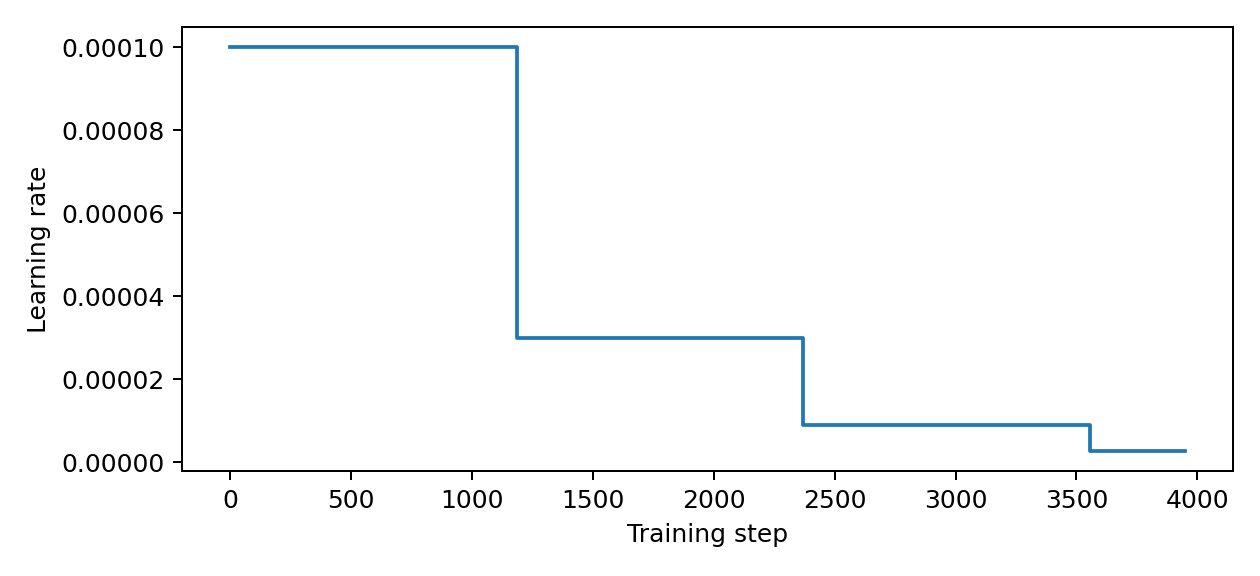
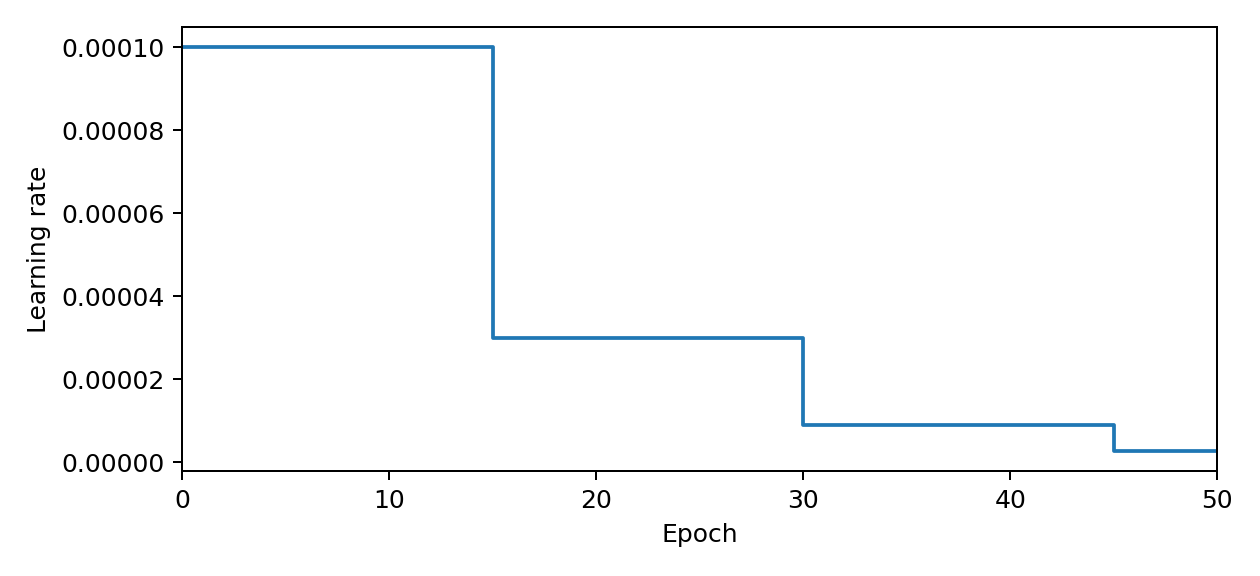
Rerun Q2 and clarify scalar and gradient figures
Keep the training and evaluation code unchanged and use fresh external logs and checkpoints. Plot epochs through 50 with raw mAP and a labeled plateau zoom, logarithmic minibatch loss, and comparable early/middle/late gradient densities from exact TensorBoard bucket counts. Refresh final-model features and measured report answers.

diff --git a/scripts/make_figures.py b/scripts/make_figures.py
@@ -2,6 +2,7 @@
 from pathlib import Path
 import shutil
 import matplotlib.pyplot as plt
+import numpy as np
 from tensorboard.backend.event_processing.event_accumulator import EventAccumulator
 
 ROOT = Path(__file__).resolve().parents[1]
@@ -11,19 +12,31 @@ FIGURES = ROOT / 'report' / 'figures'
 
 def scalars(run, tag):
     root = ROOT.parent / 'runs/q1_bce_revision' if run.startswith('q1_bce_') else RUNS
+    if run == 'q2_epoch_rerun':
+        root = ROOT.parent / 'runs/q2_epoch_revision'
     events = EventAccumulator(str(root / run), size_guidance={'scalars': 0}).Reload()
     return events.Scalars(tag)
 
 
 def plot(runs, tag, filename, ylabel):
-    fig, ax = plt.subplots(figsize=(7, 3.2))
+    zoom = filename == 'q2_map.png'
+    if zoom:
+        fig, axes = plt.subplots(1, 2, figsize=(8, 3.2), gridspec_kw={'width_ratios': [1, 2]})
+        ax = axes[0]
+    else:
+        fig, ax = plt.subplots(figsize=(7, 3.2))
     q1 = filename.startswith('q1_')
+    q2 = filename.startswith('q2_')
     for run, label in runs:
         values = scalars(run, tag)
         steps = [v.step for v in values]
-        if q1:
+        if q1 or q2:
             rates = scalars(run, 'learning_rate')
             steps_per_epoch = rates[0].step
+            if q2 and (len(rates) != 50 or rates[-1].step != 50 * steps_per_epoch):
+                raise RuntimeError('Finish all 50 Q2 epochs before generating report figures.')
+            if q2 and tag == 'map' and values[-1].step != rates[-1].step:
+                raise RuntimeError('Wait for the final Q2 evaluation before plotting mAP.')
             # Minibatch tags use zero-based indices; the final mAP and LR
             # use completed-update counts in the starter's logging loop.
             if tag != 'learning_rate':
@@ -34,15 +47,81 @@ def plot(runs, tag, filename, ylabel):
                     [values[0].value] + [v.value for v in values], where='post', label=label)
         else:
             ax.plot(steps, [v.value for v in values], label=label)
-    ax.set(xlabel='Epoch' if q1 else 'Training step', ylabel=ylabel)
-    if q1:
-        ax.set_xlim(0, 5)
-        ax.set_xticks(range(6))
+        if zoom:
+            axes[1].plot(steps, [v.value for v in values], marker='.', markersize=3)
+            late = [v.value for step, v in zip(steps, values) if step >= 5]
+            margin = max((max(late) - min(late)) * .1, .0005)
+            axes[1].set(xlabel='Epoch', xlim=(5, 50),
+                        ylim=(min(late) - margin, max(late) + margin), title='Epochs 5–50 (zoom)')
+            ax.set_title('Full range')
+    ax.set(xlabel='Epoch' if q1 or q2 else 'Training step', ylabel=ylabel)
+    if q1 or q2:
+        last_epoch = 5 if q1 else 50
+        ax.set_xlim(0, last_epoch)
+        ax.set_xticks(range(0, last_epoch + 1, 1 if q1 else 10))
+    if filename == 'q2_loss.png':
+        ax.set_yscale('log')
     if len(runs) > 1:
         ax.legend()
     fig.tight_layout()
     fig.savefig(FIGURES / filename, dpi=180)
     plt.close(fig)
+
+
+def q2_histograms():
+    events = EventAccumulator(str(ROOT.parent / 'runs/q2_epoch_revision/q2_epoch_rerun'),
+                              size_guidance={'histograms': 0, 'scalars': 0}).Reload()
+    rates = events.Scalars('learning_rate')
+    steps_per_epoch = rates[0].step
+    if len(rates) != 50 or rates[-1].step != 50 * steps_per_epoch:
+        raise RuntimeError('Finish all 50 Q2 epochs before generating histogram panels.')
+    layers = [('resnet.layer1.1.conv1.weight/grad', 'q2_hist_conv.png'),
+              ('resnet.layer4.0.bn2.bias/grad', 'q2_hist_bn.png')]
+    selected = [[min(events.Histograms(tag), key=lambda v: abs((v.step + 1) / steps_per_epoch - epoch))
+                 for epoch in [1, 25, 50]] for tag, filename in layers]
+    # All summaries use the same native TensorBoard bucket grid. Select
+    # common boundaries and combine complete buckets, without interpolation.
+    grid = np.unique(np.concatenate([v.histogram_value.bucket_limit for row in selected for v in row]))
+    indices = np.searchsorted(grid, np.linspace(grid[0], grid[-1], 41)).clip(0, len(grid) - 1)
+    edges = np.unique(grid[indices])
+    densities = []
+    for row in selected:
+        layer_densities = []
+        for value in row:
+            h = value.histogram_value
+            assert h.bucket[0] == 0
+            counts = np.zeros(len(edges) - 1)
+            for low, high, count in zip(h.bucket_limit[:-1], h.bucket_limit[1:], h.bucket[1:]):
+                if count:
+                    index = np.searchsorted(edges, high, side='left') - 1
+                    assert edges[index] <= low and high <= edges[index + 1]
+                    counts[index] += count
+            assert counts.sum() == h.num
+            density = counts / (h.num * np.diff(edges))
+            assert np.isclose(np.sum(density * np.diff(edges)), 1)
+            layer_densities.append(density)
+        densities.append(layer_densities)
+    ymax = max(density.max() for row in densities for density in row) * 1.08
+    limit = max(abs(edges[0]), abs(edges[-1]))
+    np.savez_compressed(ROOT.parent / 'runs/q2_epoch_revision/histogram_panels.npz',
+                        edges=edges, densities=np.array(densities),
+                        steps=np.array([[v.step for v in row] for row in selected]),
+                        parameter_counts=np.array([row[0].histogram_value.num for row in selected]))
+    for (tag, filename), row, layer_densities in zip(layers, selected, densities):
+        fig, axes = plt.subplots(1, 3, figsize=(8, 2.8), sharex=True, sharey=True)
+        for ax, value, density in zip(axes, row, layer_densities):
+            ax.stairs(density, edges, fill=True, alpha=.65)
+            ax.axvline(0, color='black', linewidth=.6, linestyle=':')
+            ax.set(title=f'Epoch {(value.step + 1) / steps_per_epoch:.2f}',
+                   xlabel='Gradient', xlim=(-limit, limit), ylim=(0, ymax))
+            ax.ticklabel_format(axis='both', style='sci', scilimits=(0, 0))
+            ax.locator_params(axis='x', nbins=3)
+        axes[0].set_ylabel('Probability density')
+        fig.suptitle(tag.removeprefix('resnet.').removesuffix('/grad') +
+                     f' ({int(row[0].histogram_value.num):,} parameters)')
+        fig.tight_layout()
+        fig.savefig(FIGURES / filename, dpi=180)
+        plt.close(fig)
 
 
 def main():
@@ -54,11 +133,12 @@ def main():
     comparison = [(prefix + '_noaug', 'Without augmentation'), (prefix + '_aug', 'With augmentation')]
     plot(comparison, 'Loss/train', 'q1_compare_loss.png', 'Training loss')
     plot(comparison, 'map', 'q1_compare_map.png', 'Test mAP')
-    for run, question in [(best, 'q1'), ('q2', 'q2')]:
+    for run, question in [(best, 'q1'), ('q2_epoch_rerun', 'q2')]:
         for tag, suffix, label in [('Loss/train', 'loss', 'Training loss'),
                                    ('map', 'map', 'Test mAP'),
                                    ('learning_rate', 'lr', 'Learning rate')]:
             plot([(run, run)], tag, f'{question}_{suffix}.png', label)
+    q2_histograms()
     for mode in ['overfit', 'full']:
         components = [scalars('fcos_' + mode, 'train/loss_' + kind + '_' + mode)
                       for kind in ['cls', 'box', 'ctr']]

diff --git a/report/main.tex b/report/main.tex
@@ -392,7 +392,7 @@ Hopefully, we get much better accuracy with the deeper models! Since 2012, much 
         \centering
         % TODO: put your plot here.
         \includegraphics[width=0.95\linewidth,height=0.42\textheight,keepaspectratio]{report/figures/q2_map.png}
-        \caption{\texttt{mAP} for ResNet}
+        \caption{\texttt{mAP} for ResNet. Raw logged values, with a zoom of epochs 5--50.}
         \label{fig:q2_map}
         \end{figure}
         
@@ -400,36 +400,40 @@ Hopefully, we get much better accuracy with the deeper models! Since 2012, much 
         \centering
         % TODO: put your plot here.
         \includegraphics[width=0.95\linewidth,height=0.42\textheight,keepaspectratio]{report/figures/q2_loss.png}
-        \caption{\texttt{Loss/Train} for ResNet}
+        \caption{\texttt{Loss/Train} for ResNet. Raw minibatch losses on a logarithmic scale.}
         \label{fig:q2_training_loss}
         \end{figure}
 
         \item How does the test mAP and training loss change over time? Why do you think this is happening?
 
         \begin{solution}
-Training loss falls from 0.7541 at the first logged minibatch to 0.0022 at
-step 3,900. Test mAP rises from 0.0997 after the first update to 0.7603 at
-step 70 and 0.8037 at step 140. The final score after 50 epochs is 0.8331;
-the highest logged score is 0.8340 at step 350, during epoch five.
+I fine-tuned the ImageNet-pretrained ResNet-18 for 50 epochs, using Adam,
+learning rate 0.0001, batch size 64, and seed 0. I replaced its classifier
+with a new 512-to-20 linear layer and trained all layers on 224-by-224 images.
+StepLR multiplied the learning rate by 0.3 after epochs 15, 30, and 45.
 
-The ImageNet features transfer well, so the early updates provide most of the
-improvement. Later, training loss keeps falling while test mAP largely
-plateaus. The model fits the training data more closely without comparable
-test gains. Learning-rate drops reduce update sizes but do not remove this gap.
+Training loss decreased from 0.7541 to 0.0021 at the last logged
+minibatch, near epoch 49.38. Test mAP rose from 0.0997 after the
+first update to a final score of 0.8340. The highest logged mAP was
+0.8346, near epoch 25.71.
 
-I use torchvision's pretrained ResNet-18, replace its classifier with a new
-512-to-20 linear layer, and fine-tune all layers on $224\times224$ images.
-Adam starts at $10^{-4}$ with batch size 64 and seed 0. StepLR multiplies the
-rate by 0.3 every 15 epochs. The final 50-epoch checkpoint supplies the t-SNE
-features. The assignment uses the test curve for comparison, so these scores
-do not provide an independent held-out estimate of model selection.
+Most of the test improvement happened early because the pretrained features
+already transferred well. Later, training loss kept falling while test mAP
+fluctuated around a plateau. Fitting the training data more closely did not
+produce comparable test gains.
+
+Both figures use raw TensorBoard values without smoothing. Loss is logged
+for one minibatch every 100 updates; the logarithmic scale makes its late
+variation visible. The full mAP axis includes the low first score, which
+compresses later fluctuations. The second panel shows those fluctuations
+more clearly. The final 50-epoch checkpoint supplies the t-SNE features.
 \end{solution}
         
         \begin{figure}[H]
         \centering
         % TODO: put your plot here.
         \includegraphics[width=0.95\linewidth,height=0.42\textheight,keepaspectratio]{report/figures/q2_hist_conv.png}
-        \caption{Histogram of \texttt{Conv1} layer}
+        \caption{Gradient histograms of the \texttt{Conv1} layer. Bins and axis limits match Figure~\ref{fig:q2_bn}.}
         \label{fig:q2_histogram_conv1}
         \end{figure}
         
@@ -437,26 +441,34 @@ do not provide an independent held-out estimate of model selection.
         \centering
         % TODO: put your plot here.
         \includegraphics[width=0.95\linewidth,height=0.42\textheight,keepaspectratio]{report/figures/q2_hist_bn.png}
-        \caption{Histogram of \texttt{BN4} layer}
+        \caption{Gradient histograms of the \texttt{BN4} layer. Each panel is normalized to unit area.}
         \label{fig:q2_bn}
         \end{figure}
 
         \item Compare the two histogram plots. How do they change over time? Why do you think this is happening?
 
         \begin{solution}
-These are TensorBoard's own histogram displays for the two requested parameters.
-Both gradient distributions become narrower around zero over training, with
-variation between minibatches. For \texttt{layer1.1.conv1.weight}, the gradient
-standard deviation falls from $1.59\times10^{-4}$ at step 0 to
-$2.57\times10^{-5}$ at step 3,900. For \texttt{layer4.0.bn2.bias}, it falls
-from $5.69\times10^{-4}$ to $3.77\times10^{-5}$.
+Each panel shows the gradients from one logged minibatch, near epochs
+1.28, 25.33, and 49.38. The horizontal axis is the
+gradient value. The vertical axis is probability density: the area over a
+range gives the fraction of parameters with gradients in that range. All
+six panels use the same bins and axis limits. Normalization makes the
+36,864 convolution gradients comparable with the 512 batch-normalization
+bias gradients.
 
-Smaller gradients are consistent with the falling training loss. The
-convolution adjusts spatial features, while the later batch-normalization
-bias shifts feature channels near the classifier. Their gradient scales and
-shapes therefore differ; a smaller gradient alone does not imply better
-learning. The scheduler directly scales parameter updates, rather than the
-gradients shown here.
+The starter already logs these gradients through TensorBoard after
+backpropagation. I combine adjacent stored histogram bins onto shared
+boundaries, preserving all counts without interpolation. The panels show
+early, middle, and late training without the overlapping slices of the
+TensorBoard display.
+
+Both distributions become narrower near zero. The convolution's gradient
+standard deviation decreases from 0.000116 to 0.000022; the
+batch-normalization bias changes from 0.000180 to 0.000035.
+This agrees with the falling training loss. The two parameters have different
+roles and scales, so a larger gradient does not imply better learning.
+The learning-rate schedule directly changes update sizes; it does not
+directly multiply the gradients shown here.
 \end{solution}
         
         \item We can also visualize how the feature representations specialize for different classes. Take 1000 random images from the test set of PASCAL, and extract ImageNet (finetuned) features from those images. Compute a 2D t-SNE (use \href{https://scikit-learn.org/stable/modules/generated/sklearn.manifold.TSNE.html}{sklearn}) projection of the features, and plot them with each feature color-coded by the GT class of the corresponding image. If multiple objects are active in that image, compute the color as the ``mean” color of the different classes active in that image. Add a legend explaining the mapping from color to object class. 

diff --git a/scripts/capture_tensorboard.py b/scripts/capture_tensorboard.py
@@ -28,10 +28,12 @@ def main():
         if args.question == 'q2':
             for name, tag in [('q2_hist_conv', r'^resnet\.layer1\.1\.conv1\.weight/grad$'),
                               ('q2_hist_bn', r'^resnet\.layer4\.0\.bn2\.bias/grad$')]:
-                page = open_dashboard(browser, args.url, 'histograms', 'q2', tag)
+                page = open_dashboard(browser, args.url, 'histograms', 'q2_epoch_rerun', tag)
                 page.locator('paper-icon-button[icon="fullscreen"]').first.click()
                 page.wait_for_timeout(1000)
-                page.locator('tf-histogram-loader').first.screenshot(path=str(figures / (name + '.png')))
+                native = ROOT.parent / 'runs/q2_epoch_revision/native_histograms'
+                native.mkdir(exist_ok=True)
+                page.locator('tf-histogram-loader').first.screenshot(path=str(native / (name + '.png')))
                 page.close()
         else:
             page = open_dashboard(browser, args.url, 'images', 'fcos_inference', '^test_images$')

diff --git a/scripts/tsne_features.py b/scripts/tsne_features.py
@@ -22,7 +22,7 @@ def main():
     torch.set_num_threads(8)
     course = ROOT.parent
     device = 'cuda' if torch.cuda.is_available() else 'cpu'
-    model = torch.load(course/'checkpoints/starter_revision/checkpoint-q2-epoch50.pth',
+    model = torch.load(course/'checkpoints/q2_epoch_revision/checkpoint-q2_epoch_rerun-epoch50.pth',
                        map_location=device)
     model.eval()
     dataset = VOCDataset('test',224,str(course/'data/VOCdevkit/VOC2007'))
@@ -53,7 +53,7 @@ def main():
     fig.tight_layout()
     fig.savefig(ROOT/'report/figures/q2_tsne.png',dpi=180)
     plt.close(fig)
-    output = course/'runs/starter_revision/q2'
+    output = course/'runs/q2_epoch_revision/q2_epoch_rerun'
     np.savez_compressed(output/'tsne.npz',indices=indices,features=features,labels=labels,
                         projection=projection,colors=colors)
     (output/'tsne_config.json').write_text(json.dumps(dict(seed=0,n_images=1000,

diff --git a/README.md b/README.md
@@ -17,10 +17,12 @@ Run classification commands from the repository root and detection commands from
 
 ```text
 ../data/                       VOC2007 images, XML and detection JSON
-../checkpoints/starter_revision/ Q2 and detector checkpoints
+../checkpoints/starter_revision/ Detector and earlier Q2 checkpoints
 ../checkpoints/q1_bce_revision/  Fresh Q1 checkpoints
+../checkpoints/q2_epoch_revision/ Fresh Q2 checkpoint
 ../runs/starter_revision/       Q2 and detector events and terminal logs
 ../runs/q1_bce_revision/         Fresh Q1 events, commands and measurements
+../runs/q2_epoch_revision/       Fresh Q2 events, commands and measurements
 ../tools/mAP/                   Unmodified Cartucho evaluator
 ../build/                       Compiled report and temporary files
 ../submission/                  PDF and Python files only
@@ -46,9 +48,9 @@ VLR_RUN_NAME=q1_bce_lr001_noaug VLR_AUGMENT=0 VLR_LR=0.001 python q1_q2_classifi
 VLR_RUN_NAME=q1_bce_lr001_aug VLR_AUGMENT=1 VLR_LR=0.001 python q1_q2_classification/train_q1.py
 VLR_RUN_NAME=q1_bce_lr0003_noaug VLR_AUGMENT=0 VLR_LR=0.0003 python q1_q2_classification/train_q1.py
 VLR_RUN_NAME=q1_bce_lr0003_aug VLR_AUGMENT=1 VLR_LR=0.0003 python q1_q2_classification/train_q1.py
-export VLR_LOG_ROOT="$PWD/../runs/starter_revision"
-export VLR_CHECKPOINT_ROOT="$PWD/../checkpoints/starter_revision"
-VLR_RUN_NAME=q2 python q1_q2_classification/train_q2.py
+export VLR_LOG_ROOT="$PWD/../runs/q2_epoch_revision"
+export VLR_CHECKPOINT_ROOT="$PWD/../checkpoints/q2_epoch_revision"
+VLR_RUN_NAME=q2_epoch_rerun VLR_LR=0.0001 VLR_AUGMENT=1 python q1_q2_classification/train_q2.py
 ```
 
 The only extra experiment controls are environment variables for the required augmentation comparison, learning-rate comparison, run names, and output directories. Q1 runs five epochs at 64×64; Q2 runs 50 epochs at 224×224. Both use seed 0 and the supplied architecture/optimizer choices. Q1 uses `BCEWithLogitsLoss(reduction="none")` directly on logits, then averages over the difficult-label mask with `(elementwise_loss * wgt).sum() / wgt.sum().clamp_min(1)`. The assignment permits a PyTorch loss; this explicitly authorized choice overrides the loss TODO comment for Q1. A model-type check keeps Q2 on its existing manual stable BCE. Ordinary inputs, extreme logits, masked labels, and all-masked batches were checked for matching losses and gradients; Q2 was checked separately. Q2 replaces the pretrained classifier with a 512-to-20 linear layer and fine-tunes all layers.
@@ -60,6 +62,8 @@ Fresh Q1 commands, settings, source hashes, loss checks, and measured results ar
 Follow the original [detection README](detection/README.md):
 
 ```shell
+export VLR_LOG_ROOT="$PWD/../runs/starter_revision"
+export VLR_CHECKPOINT_ROOT="$PWD/../checkpoints/starter_revision"
 cd detection
 python -m test_object_detection
 python train.py --visualize_gt
@@ -86,20 +90,22 @@ python scripts/make_figures.py
 python -m tensorboard.main --logdir ../runs/starter_revision --host 127.0.0.1 --port 6006 --load_fast=false
 ```
 
-Q1 report plots convert logged steps to epochs using the 79 minibatches per epoch. They show at most five epochs; the learning-rate change occurs at epoch three.
+Classification plots convert logged steps to epochs using the 79 minibatches per epoch. Q1 stops at five epochs and Q2 at 50. The Q2 mAP figure shows both the full raw curve and a labeled zoom of epochs 5–50; its loss figure uses a logarithmic y-axis. No smoothing or averaging is applied. Q2 retains loss logging every 100 updates and mAP evaluation every 70 updates.
 
-For the fresh Q1 dashboard, use `--logdir ../runs/q1_bce_revision` in the TensorBoard command.
+For the fresh Q1 dashboard, use `--logdir ../runs/q1_bce_revision` in the TensorBoard command. For fresh Q2, use `--logdir ../runs/q2_epoch_revision --port 6007`. Its commands, unchanged training settings, source hashes, and results are recorded in that directory.
 
 The assignment provides no t-SNE implementation or combined scalar/loss plotting function, so the small scripts handle those deliverables. t-SNE uses the final 50-epoch model, 1,000 distinct test images, seed 0, the 512-dimensional pooled features, sklearn, and the required mean RGB class colors. Detector loss curves sum the three losses already logged by the starter.
 
-For screenshots, install optional browser tooling with `python -m pip install playwright` and `python -m playwright install chromium`, then run:
+The starter already logs gradients using `SummaryWriter.add_histogram` after backpropagation and before the optimizer update. It provides no static histogram plotting template. Q2 now uses three flat histogram panels per layer, selected nearest epochs 1, 25, and 50 and labeled with the actual recorded epochs. Native TensorBoard buckets are combined onto common boundaries without interpolation. Counts are divided by parameter count and bin width so each density integrates to one. Both layers share gradient and density limits; no tails are excluded.
+
+For optional native TensorBoard screenshots, install browser tooling with `python -m pip install playwright` and `python -m playwright install chromium`, then run:
 
 ```shell
-python scripts/capture_tensorboard.py --question q2
+python scripts/capture_tensorboard.py --question q2 --url http://127.0.0.1:6007
 python scripts/capture_tensorboard.py --question q3
 ```
 
-These capture TensorBoard's own histogram rendering and the visible first two images of the unchanged ten-image grid. The original LaTeX packages, questions, and collaboration survey are preserved. Complete the survey before submitting.
+The Q2 command saves the native stacked display under `../runs/q2_epoch_revision/native_histograms/` for reference. The Q3 command captures the visible first two images of the unchanged ten-image inference grid. The original LaTeX packages, questions, and collaboration survey are preserved. Complete the survey before submitting.
 
 Compile the top-level `main.tex` in Overleaf, or locally:
 
